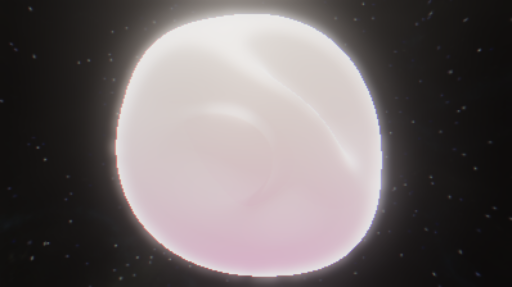
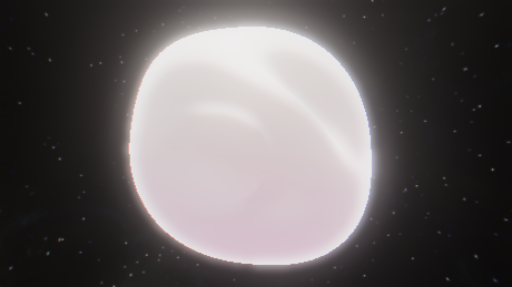
Include Selective audio in demo fixtures with a fresh captured thumbnail

diff --git a/scripts/demo/README.md b/scripts/demo/README.md
@@ -64,8 +64,8 @@ runs this workflow automatically.
 
 Edit the current document directly in `catalog.json`; account, discussion and
 engagement links use stable fixture keys. Keep **Original** and **Selective** as
-supported creative choices. The current template collection uses Original;
-the validator and current contracts also support Selective. Do not convert
+supported creative choices. Rose Reverie demonstrates Selective with a saved
+bass-hit mapping; the other examples use Original. Do not convert
 examples merely because Original's internal identifier is `legacy`.
 
 After a visual change, use Create a scene to preview it and capture a fresh PNG.
